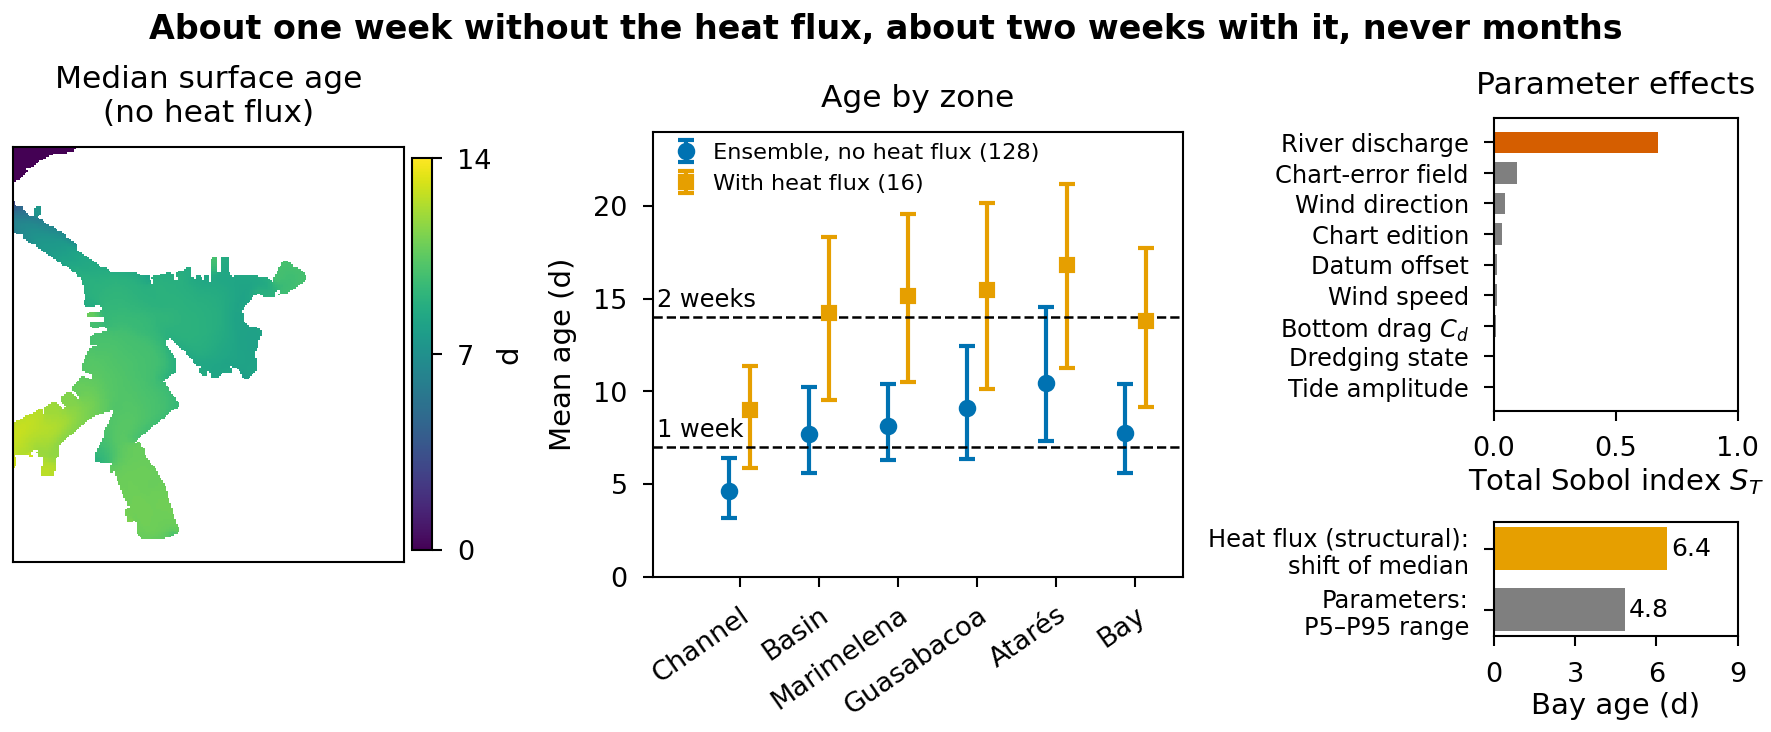
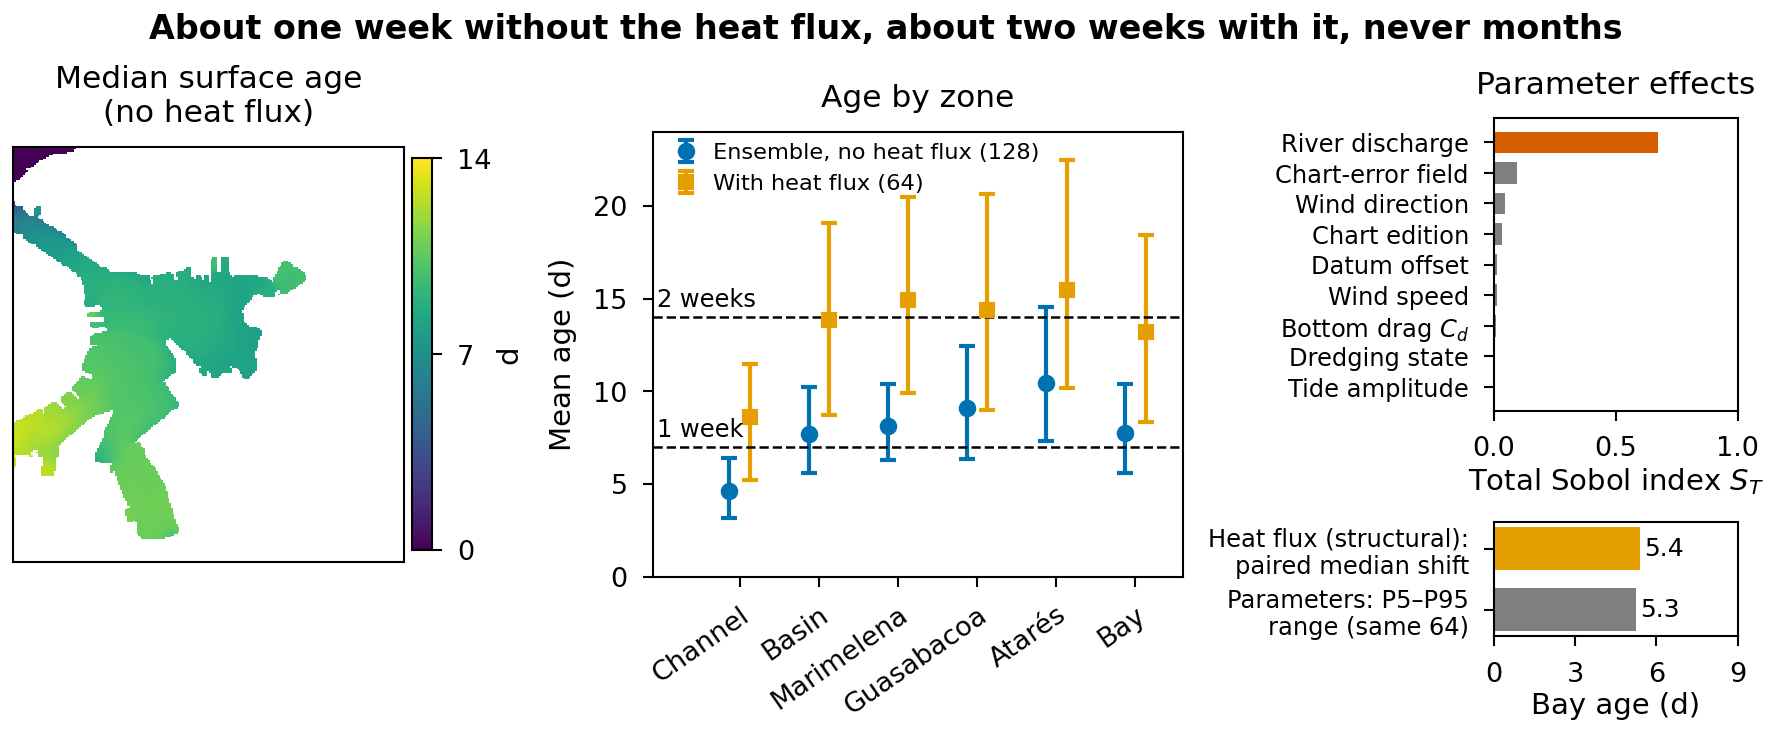
V2 B4: resultado del conjunto con calor de 64 miembros leido con la regla fijada; resumen grafico con los 64; fracciones n/64 en conjunto_calor.py
Claude-Session: https://claude.ai/code/session_011ZQy6j6faxb4dHyc5rKgZH

diff --git a/scripts/figuras_resultados.py b/scripts/figuras_resultados.py
@@ -318,7 +318,7 @@ def fig_borde(dir=RAIZ / "runs" / "conjunto", salida=SALIDA):
 
 def fig_resumen(dir=CONJUNTO, salida=SALIDA):
     """Resumen grafico (Elsevier: >= 1328 x 531 px; 15 x 6,2 cm), mensaje en dos niveles (16-nov, V2 B6): mapa de la edad mediana (conjunto sin calor),
-    edad por zona (mediana y P5-P95) del conjunto (128 miembros) y de los 16 miembros con flujo de calor + OISST, e indices S_T; el flujo de calor va aparte, en dias."""
+    edad por zona (mediana y P5-P95) del conjunto (128 miembros) y de los 64 miembros con flujo de calor + OISST, e indices S_T; el flujo de calor va aparte, en dias."""
     estilo(); plt.rcParams.update({"font.size": 7.5, "axes.titlesize": 7.5})
     filas = list(csv.DictReader(open(Path(dir) / "prob_zonas.csv"))); p = np.load(Path(dir) / "prob_edad_sup.npz")
     sob = [r for r in csv.DictReader(open(Path(dir) / "sobol.csv")) if r["metrica"] == "edad_media_d_bahia"]
@@ -327,9 +327,9 @@ def fig_resumen(dir=CONJUNTO, salida=SALIDA):
     ext = [e[0] - 0.01, e[-1] + 0.01, n[0] - 0.01, n[-1] + 0.01]
     zonas = ["canal", "cuenca", "Marimelena", "Guasabacoa", "Atares", "bahia"]
     lee = lambda d, k, z: json.loads((RAIZ / "runs" / d / f"m{k:04d}" / "resumen.json").read_text())[f"edad_media_d_{z}"]
-    cal = {z: np.array([lee("conjunto_calor", k, z) for k in range(16)]) for z in zonas}; sin16 = np.array([lee("conjunto", k, "bahia") for k in range(16)])
-    desp = float(np.median(cal["bahia"]) - np.median(sin16)); fb = next(r for r in filas if r["zona"] == "bahia"); rango = float(fb["p95"]) - float(fb["p5"])
-    print(f"calor (n=16): bahia mediana {np.median(cal['bahia']):.2f} d, P5-P95 {np.percentile(cal['bahia'], 5):.2f}-{np.percentile(cal['bahia'], 95):.2f}; sin calor (mismos 16) {np.median(sin16):.2f}; desplazamiento {desp:.2f} d; rango P5-P95 del conjunto {rango:.2f} d")
+    cal = {z: np.array([lee("conjunto_calor", k, z) for k in range(64)]) for z in zonas}; sin64 = np.array([lee("conjunto", k, "bahia") for k in range(64)])
+    desp = float(np.median(cal["bahia"] - sin64)); rango = float(np.percentile(sin64, 95) - np.percentile(sin64, 5))   # 17-nov: 64 miembros, diferencia pareada y rango de los MISMOS 64 sin calor (R = desp / rango)
+    print(f"calor (n=64): bahia mediana {np.median(cal['bahia']):.2f} d, P5-P95 {np.percentile(cal['bahia'], 5):.2f}-{np.percentile(cal['bahia'], 95):.2f}; sin calor (mismos 64) {np.median(sin64):.2f}; desplazamiento pareado {desp:.2f} d; rango P5-P95 sin calor (mismos 64) {rango:.2f} d")
     fig = plt.figure(figsize=(150 * MM, 62 * MM), constrained_layout=True)
     g = fig.add_gridspec(1, 3, width_ratios=[0.85, 1.15, 1.25])
     a, b = fig.add_subplot(g[0]), fig.add_subplot(g[1]); cc = g[2].subgridspec(2, 1, height_ratios=[3.2, 1.25]); c, d = fig.add_subplot(cc[0]), fig.add_subplot(cc[1])
@@ -339,7 +339,7 @@ def fig_resumen(dir=CONJUNTO, salida=SALIDA):
     x = np.arange(len(filas)); med, lo, hi = (np.array([float(r[k]) for r in filas]) for k in ("p50", "p5", "p95"))
     b.errorbar(x - 0.13, med, yerr=[med - lo, hi - med], fmt="o", color=AZUL, ms=3.2, capsize=2, lw=1, label="Ensemble, no heat flux (128)")
     mc = np.array([np.median(cal[z]) for z in zonas]); lc, hc = (np.array([np.percentile(cal[z], q) for z in zonas]) for q in (5, 95))
-    b.errorbar(x + 0.13, mc, yerr=[mc - lc, hc - mc], fmt="s", color=NARANJA, ms=3.0, capsize=2, lw=1, label="With heat flux (16)")
+    b.errorbar(x + 0.13, mc, yerr=[mc - lc, hc - mc], fmt="s", color=NARANJA, ms=3.0, capsize=2, lw=1, label="With heat flux (64)")
     for v, t in ((7, "1 week"), (14, "2 weeks")):
         b.axhline(v, color=NEGRO, ls="--", lw=0.6); b.text(-1.05, v + 0.3, t, ha="left", va="bottom", fontsize=5.8)
     b.legend(frameon=False, loc="upper left", fontsize=5.4, handletextpad=0.2, borderaxespad=0.1)
@@ -349,7 +349,7 @@ def fig_resumen(dir=CONJUNTO, salida=SALIDA):
     c.barh(y, st, color=[BERMELLON if r["parametro"] == "qfac" else GRIS for r in sob], height=0.7)
     c.set_yticks(y); c.set_yticklabels([PARAM.get(r["parametro"], r["parametro"]) for r in sob], fontsize=5.8)
     c.set_xlim(0, 1); c.set_xlabel("Total Sobol index $S_T$", labelpad=1); c.set_title("Parameter effects")
-    d.barh([1, 0], [desp, rango], color=[NARANJA, GRIS], height=0.7); d.set_yticks([1, 0]); d.set_yticklabels(["Heat flux (structural):\nshift of median", "Parameters:\nP5–P95 range"], fontsize=5.8)
+    d.barh([1, 0], [desp, rango], color=[NARANJA, GRIS], height=0.7); d.set_yticks([1, 0]); d.set_yticklabels(["Heat flux (structural):\npaired median shift", "Parameters: P5–P95\nrange (same 64)"], fontsize=5.8)
     d.set_xlim(0, 9); d.set_xticks([0, 3, 6, 9]); d.set_xlabel("Bay age (d)", labelpad=1)
     for yy, v in ((1, desp), (0, rango)): d.text(v + 0.15, yy, f"{v:.1f}", va="center", fontsize=6)
     fig.suptitle("About one week without the heat flux, about two weeks with it, never months", fontsize=8, fontweight="bold")

diff --git a/scripts/conjunto_calor.py b/scripts/conjunto_calor.py
@@ -76,7 +76,7 @@ if __name__ == "__main__":
     cl = lambda x: "robusta" if x >= 0.9 else "rechazada" if x <= 0.1 else "fragil"
     out.append("clases del protocolo (n = %d): conclusion | sin calor | con calor" % len(ok))
     for nom, fn in C.items():
-        a, b = (np.mean([float(fn(c, i)) for i in ok]) for c in ("sin", "calor")); out.append(f"  {nom}: {a:.2f} {cl(a)} | {b:.2f} {cl(b)}" + ("   <-- CAMBIA" if cl(a) != cl(b) else ""))
+        a, b = (np.mean([float(fn(c, i)) for i in ok]) for c in ("sin", "calor")); out.append(f"  {nom}: {a:.2f} ({round(a * len(ok))}/{len(ok)}) {cl(a)} | {b:.2f} ({round(b * len(ok))}/{len(ok)}) {cl(b)}" + ("   <-- CAMBIA" if cl(a) != cl(b) else ""))
     # [descriptivo, no pre-registrado] correlaciones entre parametros en estos 16 y correlacion parcial de rangos con qfac y mfac
     rr = lambda a: rangos(np.asarray(a)[ok])
     out.append("[descriptivo] rho entre parametros en estos miembros con |rho| >= 0,5: " + ", ".join(f"{a}-{b} {spearman(X[a][ok], X[b][ok]):+.2f}" for i, a in enumerate(PARAMS) for b in PARAMS[i + 1:] if abs(spearman(X[a][ok], X[b][ok])) >= 0.5))

diff --git a/docs/protocolo_metricas_conjunto.md b/docs/protocolo_metricas_conjunto.md
@@ -109,3 +109,5 @@ Los índices de Sobol se dan siempre con su IC 95 % (bootstrap). Con N = 64 su e
 
 - 2026-11-16 (5) — **Resultado de B2 con el proxy (`scripts/mecanismo_calor.py analiza` → `resultados/mecanismo_calor.txt`), leído con la regla fijada en 16-nov (3); umbrales sin tocar.** Forzamiento ERA5 2016 (8.784 h, `resultados/forzamiento_2016_horario.csv`) con la SST OISST. **m0005 (calor + OISST):** T1 ρ(enfriamiento, crecimiento de la edad) lag 0 = +0,32, lag 1 = +0,28 → *confirmada* (≥ +0,30, por un margen de 0,02); control sin calor −0,01, pasa; **T2** (feb–dic) ρ(enfriamiento, edad) = +0,75 → *confirmada*; **T3** ρ parcial dado el esfuerzo del viento = +0,14 < +0,25 → **no se cumple**; ρ(τ, crecimiento) = +0,30. **Veredicto por la regla: no concluyente / parcial** (T1 y T2 confirman, el control pasa, pero en esta serie enfriamiento y viento no se separan: ambos caen en los meses de frentes fríos). Réplica con m0001 (calor + borde 28 °C), fuera de la regla: T1 +0,51, T2 +0,66, parcial +0,33 (≥ 0,25), veredicto por la misma regla «apoyada (compatible)». **Cautelas:** (i) el proxy da un Qnet medio anual de −18,5 W/m² (SW 212, LW −66, H 16, LE 148), un balance anual negativo poco creíble en una bahía tropical, que apunta a sobreestimar el calor latente con Ce y Cd constantes; las correlaciones son por rangos y no dependen del nivel medio, pero **la amplitud del proxy no es el flujo de SCHISM**; (ii) T1 pasa por 0,02 y con lag 1 no pasaría; (iii) una sola serie de 365 d, bloques de 5 d autocorrelacionados, sin intervalos de incertidumbre; (iv) mensual: el enfriamiento (Qnet < 0) coincide en ene, feb y oct–dic con la edad con calor alta salvo enero, que es el arranque desde edad 0. **Lo que se puede escribir:** la edad con calor es mayor en los meses de balance de calor negativo y de viento fuerte, y la serie no separa ambos; es compatible con la hipótesis del enfriamiento, no la demuestra. El Δρ del canal sigue sin medirse.
 - 2026-11-16 (6) — **Coste medido (sustituye las estimaciones de 16-nov (3) y (4)).** De los `coste.txt` (tramos × 7 tareas): `robustez_largo` a 365 d, m0000 120 core-h, m0001 133, m0005 126 (≈ 17–19 h de reloj); `conjunto_calor` a 120 d, 16 miembros, 6,9 h de reloj, **≈ 49 core-h por miembro** (el conjunto sin calor tenía ≈ 72–76 en su `coste.txt`; el medido con calor es menor). Así, los 48 miembros nuevos de `calor64` cuestan ≈ 2.400 core-h (≈ 3.700 con el margen anterior), y repetir m0005 a 365 d con salidas, ≈ 130–180 core-h en lugar de 220–330. No cambia ninguna recomendación.
+
+- 2026-11-17 — **Resultado del conjunto con calor de 64 miembros (`CALOR_N=64 python scripts/conjunto_calor.py` → `resultados/conjunto_calor64.txt`), leído con la regla fijada en 16-nov (4); umbrales sin tocar.** 64/64 miembros válidos, emparejados con los mismos 64 sin calor. Edad de la bahía (últimos 30 d): sin calor mediana 7,57 d (P5–P95 5,45–10,71); con calor 13,20 d (8,34–18,42). Con calor mayor en 64/64; diferencia pareada mediana +5,40 d. En equilibrio (|deriva| ≤ 0,05 d/d): 59/64 → 1/64. El canal es la zona más joven en los 64 con y sin calor. **Clases (n/64, sin → con calor):** C1 64 → 58 (robusta → robusta, 0,91); C2 64 → 64; **C3 49 → 64 (frágil 0,77 → robusta)**; C4 64 → 58 (robusta → robusta, 0,91); C5, C6, C7 64 → 64; **P(>7 d) 42 → 63 (frágil 0,66 → robusta 0,98)**; **P(>14 d) 0 → 27 (rechazada → frágil, 0,42)**; P(>30 d) 0 → 0 (rechazada). Cambian las mismas tres que con 16. C1 y C4 con calor quedan en 0,906, justo por encima de 0,90: un miembro más en contra las dejaría frágiles. **Regla del caudal:** con calor |ρ(edad, qfac)| = 0,79 es el mayor de los nueve y supera 0,50 → «el caudal sigue dominando» (sin calor 0,91). **Separación caudal–marea (posible ahora, correlación de diseño qfac–mfac = 0,00):** ρ parcial de la edad con qfac dado mfac −0,79 con calor (−0,92 sin calor); con mfac dado qfac −0,13 (−0,15): es el caudal, no la amplitud de marea. **Efecto estructural frente al rango paramétrico:** R = 5,40 / 5,25 = **1,03**, con calor mayor en el 100 % de los miembros → la regla (R > 1 y ≥ 90 %) se cumple, pero **por 0,03**: el desplazamiento por el calor es del mismo orden que el rango P5–P95 de los parámetros, no claramente mayor. **[Descriptivo, no pre-registrado]** con calor, ρ(edad, vfac) = −0,35 (sin calor +0,09) y ρ(edad, carta) = −0,25 (−0,20 sin calor); con nueve parámetros y n = 64 no se interpreta más allá de que el viento pesa más con calor, coherente con que el viento y el enfriamiento no se separan en B2. C8 (Sobol) no se evalúa. Alcance: enero–abril de 2016, 120 d, últimos 30 d; con calor la edad no es estacionaria.

diff --git a/docs/articulo/cifras.md b/docs/articulo/cifras.md
@@ -151,6 +151,8 @@ Conclusiones del protocolo (fracción de los 128 miembros que las cumplen): **C1
 
 **Conjunto reducido con calor (16-nov; 16 miembros del bloque A con flujo de calor + OISST, 120 d, `scripts/conjunto_calor.py`, `resultados/conjunto_calor.txt`; lectura fijada el 15-nov en `protocolo_metricas_conjunto.md`):** edad de la bahía, mediana y P5–P95, sin calor 7,36 (5,90–10,41) d y con calor 13,77 (9,15–17,74) d, mayor con calor en 16/16 (+5,47 d de mediana), 0/16 en equilibrio con calor (14/16 sin). **Cambian tres clases con n = 16:** C3 frágil (0,69) → robusta (1,00); P(>7 d) frágil (0,56) → robusta (1,00); P(>14 d) rechazada (0,00) → frágil (0,44). C1, C2, C4–C7 siguen robustas. ρ de Spearman con el caudal −0,80 (sin calor −0,91): sigue siendo el parámetro con mayor |ρ|, pero en estos 16 qfac y mfac son casi colineales (ρ = +0,93; ρ parcial del caudal dado mfac −0,39 con calor, −0,62 sin calor), así que no separan los dos. Solo enero–abril de 2016.
 
+**Conjunto con calor de 64 miembros (17-nov; `CALOR_N=64 python scripts/conjunto_calor.py` → `resultados/conjunto_calor64.txt`; lectura fijada 16-nov (4), resultado en el protocolo 17-nov).** Miembros 0–63 (bloque A) con calor + OISST frente a los mismos 64 sin calor, 120 d, últimos 30 d: **mediana de la bahía 7,57 d (P5–P95 5,45–10,71) sin calor y 13,20 d (8,34–18,42) con calor**; mayor con calor en 64/64; diferencia pareada mediana +5,40 d; P(>7 d) 0,66 (42/64) → 0,98 (63/64); P(>14 d) 0,00 (0/64) → 0,42 (27/64); P(>30 d) 0/64 → 0/64; en equilibrio 59/64 → 1/64. Clases sin → con calor: C1 64/64 → 58/64, C2 64/64 → 64/64, C3 49/64 (frágil) → 64/64 (robusta), C4 64/64 → 58/64, C5, C6, C7 64/64 → 64/64; C1 y C4 con calor son 0,906, apenas por encima de 0,90. Caudal con calor: ρ(edad, qfac) = −0,79 (sin calor −0,91), el mayor de los nueve; **separado de la marea**: ρ parcial qfac|mfac −0,79 y mfac|qfac −0,13. **R = 5,40 / 5,25 = 1,03** (diferencia pareada / ancho P5–P95 sin calor de los mismos 64): el efecto del calor es del mismo orden que el rango de los parámetros, no claramente mayor. Sustituye a la comparación «6,4 d frente a 4,8 d» (16 frente a 128 miembros). Con calor ρ(edad, vfac) = −0,35 (descriptivo). **Mecanismo (proxy, 16-nov):** T1 +0,32, T2 +0,75, T3 +0,14; veredicto parcial (`resultados/mecanismo_calor.txt`).
+
 **Calor, cifras para la V2 (16-nov; `scripts/fig_heatflux.py` → `resultados/heatflux_cifras.txt` y `fig_heatflux`; lectura fijada el 14-nov y el 15-nov).** *Año de 365 d, edad de la bahía, serie diaria (base = central sin calor; calor + borde 28 °C = m0001; calor + OISST = m0005):* media anual base 6,45 d, m0001 10,46, **m0005 11,37**. Días con media diaria > 14 d: base 0/365, m0001 119/365, **m0005 88/365**. Media móvil de 30 d: base 4,2–7,6 d (4,2 es el arranque desde edad 0), m0001 4,2–21,1, **m0005 5,1–21,1**. Medias mensuales ene…dic: base 4,2 7,3 6,5 6,6 6,7 6,5 6,4 6,3 6,3 7,3 6,7 6,6; m0001 4,9 11,4 17,1 17,3 9,9 5,4 4,2 4,2 5,1 9,1 20,6 16,7; **m0005 5,2 13,7 13,9 11,4 12,0 9,6 8,4 6,1 8,0 12,1 21,0 15,4** (agosto 6,1 con calor y 6,3 en la base; noviembre 21,0 con calor y 6,7 en la base). *Subconjunto de 16 (miembros 0–15 del bloque A, 120 d):* C1 y C4 con calor 0,94 (15/16 miembros; sin calor 1,00); mediana de la bahía 7,36 → 13,77 d, es decir, un **desplazamiento de las medianas de 6,40 d (13,77 − 7,36 con los decimales sin redondear)**; la **diferencia pareada mediana es +5,47 d** (no es lo mismo: la primera compara medianas de dos conjuntos, la segunda mediana de las diferencias miembro a miembro). *Comparación con el rango del conjunto principal:* P5–P95 de la bahía en el conjunto principal (128 miembros) 5,58–10,42, es decir 4,84 d de ancho (con los mismos 16 sin calor: 5,90–10,41, 4,51 d). Ojo: «6,4 d frente a 4,8 d» compara una mediana de 16 miembros con calor con el ancho P5–P95 de otro conjunto de 128; vale como orden de magnitud, no como una relación entre cantidades homogéneas. *Marea (EOT20 frente a FES2022, mismo punto y método que `fig_tide`):* la mayor diferencia de amplitud por constituyente es 0,37 cm (O1; M2 0,36), así que «como mucho 0,4 cm» es correcto (el «< 0,4» anterior también).
 
 **Lo que NO cubre el conjunto:** el flujo de calor (la sección de robustez de arriba): m0001 da 16,8 d y m0005 11,2 d, los dos sin equilibrio, y m0001 estaría por encima de 14 d. "P(> 14 d) = 0" vale dentro de la estructura del modelo del conjunto, no frente a esa alternativa estructural.

diff --git a/docs/articulo/para_chat_articulo_16nov_v2.md b/docs/articulo/para_chat_articulo_16nov_v2.md
@@ -43,3 +43,17 @@ Hasta entonces, en el texto: la variabilidad con calor es un resultado del model
 - No hay Δρ del canal. Repetir m0005 con salidas queda en reserva: cuesta ≈ 130–180 core-h (medido: los 365 d de `robustez_largo` salieron a 120–133 core-h).
 - **Costes medidos:** `conjunto_calor` a 120 d ≈ 49 core-h por miembro (no 72–76); los 48 nuevos ≈ 2.400 core-h.
 - Qué cambia en el texto: «hipótesis del enfriamiento» pasa de «propuesta» a «compatible con el proxy, no separable del viento, Δρ sin medir».
+
+## Actualización del 17-nov: resultado del conjunto con calor de 64 (B4)
+
+Leído con la regla del protocolo (16-nov (4)), umbrales sin tocar. Detalle en `docs/articulo/cifras.md` y `resultados/conjunto_calor64.txt`.
+
+**Tabla 4 (n/64, sin → con calor):** C1 64 → 58; C2 64 → 64; C3 49 → 64; C4 64 → 58; C5–C7 64 → 64; P(>7 d) 42 → 63; P(>14 d) 0 → 27; P(>30 d) 0 → 0. Bahía: mediana 7,57 d (5,45–10,71) → 13,20 d (8,34–18,42); calor mayor en 64/64; desplazamiento pareado +5,40 d.
+
+- **Cambia respecto al borrador de 16 miembros (antes → después):** mediana con calor 13,8 d (9,2–17,7) → **13,2 d (8,3–18,4)**; desplazamiento 6,4 d → **5,4 d** (ya pareado); C1 y C4 con calor 0,94 (15/16) → **0,91 (58/64)**; P(>14 d) 0,44 → **0,42 (27/64)**. C3, P(>7 d) y P(>14 d) cambian de clase igual que con 16.
+- **Caudal frente a marea, resuelto:** con calor |ρ(edad, qfac)| = 0,79, el mayor de los nueve; ρ parcial qfac dado mfac −0,79, mfac dado qfac −0,13. Se puede escribir que el caudal domina con calor y que no es un efecto de la marea.
+- **«6,4 d frente a 4,8 d» → «5,4 d frente a 5,25 d» (R = 1,03).** El efecto del calor es del mismo orden que el rango P5–P95 de todos los parámetros juntos; la regla fijada (R > 1 y ≥ 90 % de miembros) se cumple por 0,03, así que **decir «del mismo orden», no «mayor»**. El titular «about two weeks with it» es la mediana 13,2 d, con P(>14 d) = 0,42: «about two weeks» vale; «never months» vale (P(>30 d) = 0/64).
+- C1 y C4 son 0,906: un miembro más en contra las dejaría frágiles; describirlas como «robustas, por poco».
+- Descriptivo: con calor sale vfac con ρ = −0,35; coherente con B2 (el viento no se separa del enfriamiento); no se interpreta más.
+- **Resumen gráfico regenerado** con los 64 (naranja n = 64; barra «paired median shift» 5,4 d frente a «P5–P95 range (same 64)» 5,3; en el PNG 5,25 sale redondeado a 5,3). `docs/figuras/articulo/graphical_abstract.{png,pdf}`.
+- Con (a) C8 (Sobol) no se evalúa. Alcance: enero–abril de 2016, 120 d, últimos 30 d.
